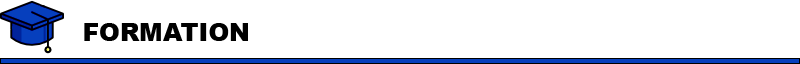
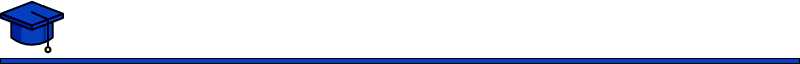
Replace text-images by html text

Changed region(s): [[0.0938, 0.3438, 0.3125, 0.6562]]

diff --git a/index.html b/index.html
@@ -23,9 +23,11 @@
 			<!-- Insert pictos -->
 			</aside>
 			<main>
-			<!-- Formations -->
 			<h1>Curriculum vitæ : Augustin Debureaux</h1>
-			<h3><img src="picto/hat.png" alt="Pictogramme formation"/></h3>
+			<div class="contenant">
+				<img src="picto/hat.png" alt="Pictogramme formations">
+				<h2><div class="texte_centrer">FORMATIONS</div></h2>
+			</div>
 				<div class="container">
 					<div class="content_left">
 						<ul>
@@ -74,8 +76,10 @@
 							Option Marketing Digital et Communication</p>
 					</div>
 				</div>
-				<!-- Experiences Professionnelles -->
-			<h3><img src="picto/portfolio.png" alt="Pictogramme experience"/></h3>
+				<div class="contenant">
+					<img src="picto/portfolio.png" alt="Pictogramme experiences">
+					<h2><div class="texte_centrer">EXPERIENCES PROFESSIONNELLES</div></h2>
+				</div>
 			<div class="container">
 				<div class="content_left">
 					<ul>
@@ -116,7 +120,10 @@
 						Communication digitale, Référencement Web</p>
 				</div>
 			</div>
-			<h3><img src="picto/skills.png" alt="Pictogramme compétences"/></h3>
+			<div class="contenant">
+				<img src="picto/skills.png" alt="Pictogramme compétences">
+				<h2><div class="texte_centrer">COMPÉTENCES</div></h2>
+			</div>
 			</main>
 		</div>
 	</body>

diff --git a/style.css b/style.css
@@ -64,13 +64,6 @@ body {
     padding: 5px;
 }
 
-#page main h2 {
-    background-color: white;
-    color: black;
-    margin-left: 5%;
-    padding: 5px;
-}
-
 #page main h3 {
     background-color: white;
     margin-left: 5%;
@@ -87,7 +80,6 @@ body {
 	flex-direction: row;
 }
 
-
 #page main .content_left {
 	width: 40%;
 	margin-left: 4%;
@@ -97,5 +89,21 @@ body {
 #page main .content_right {
 	width: 65%;
 	margin-left: 3%;
+	font-size: 1.2em;
+}
+
+#page main .contenant {
+	position: relative;
+	margin-left: 5%;
+	margin-right: 5%;
+	margin-top: 5%;
+	padding: 5px;
+}
+
+#page main .texte_centrer {
+	position: absolute;
+	top: 20px;
+	left: 80px;
+	font-weight: bold;
 	font-size: 1.2em;
 }
